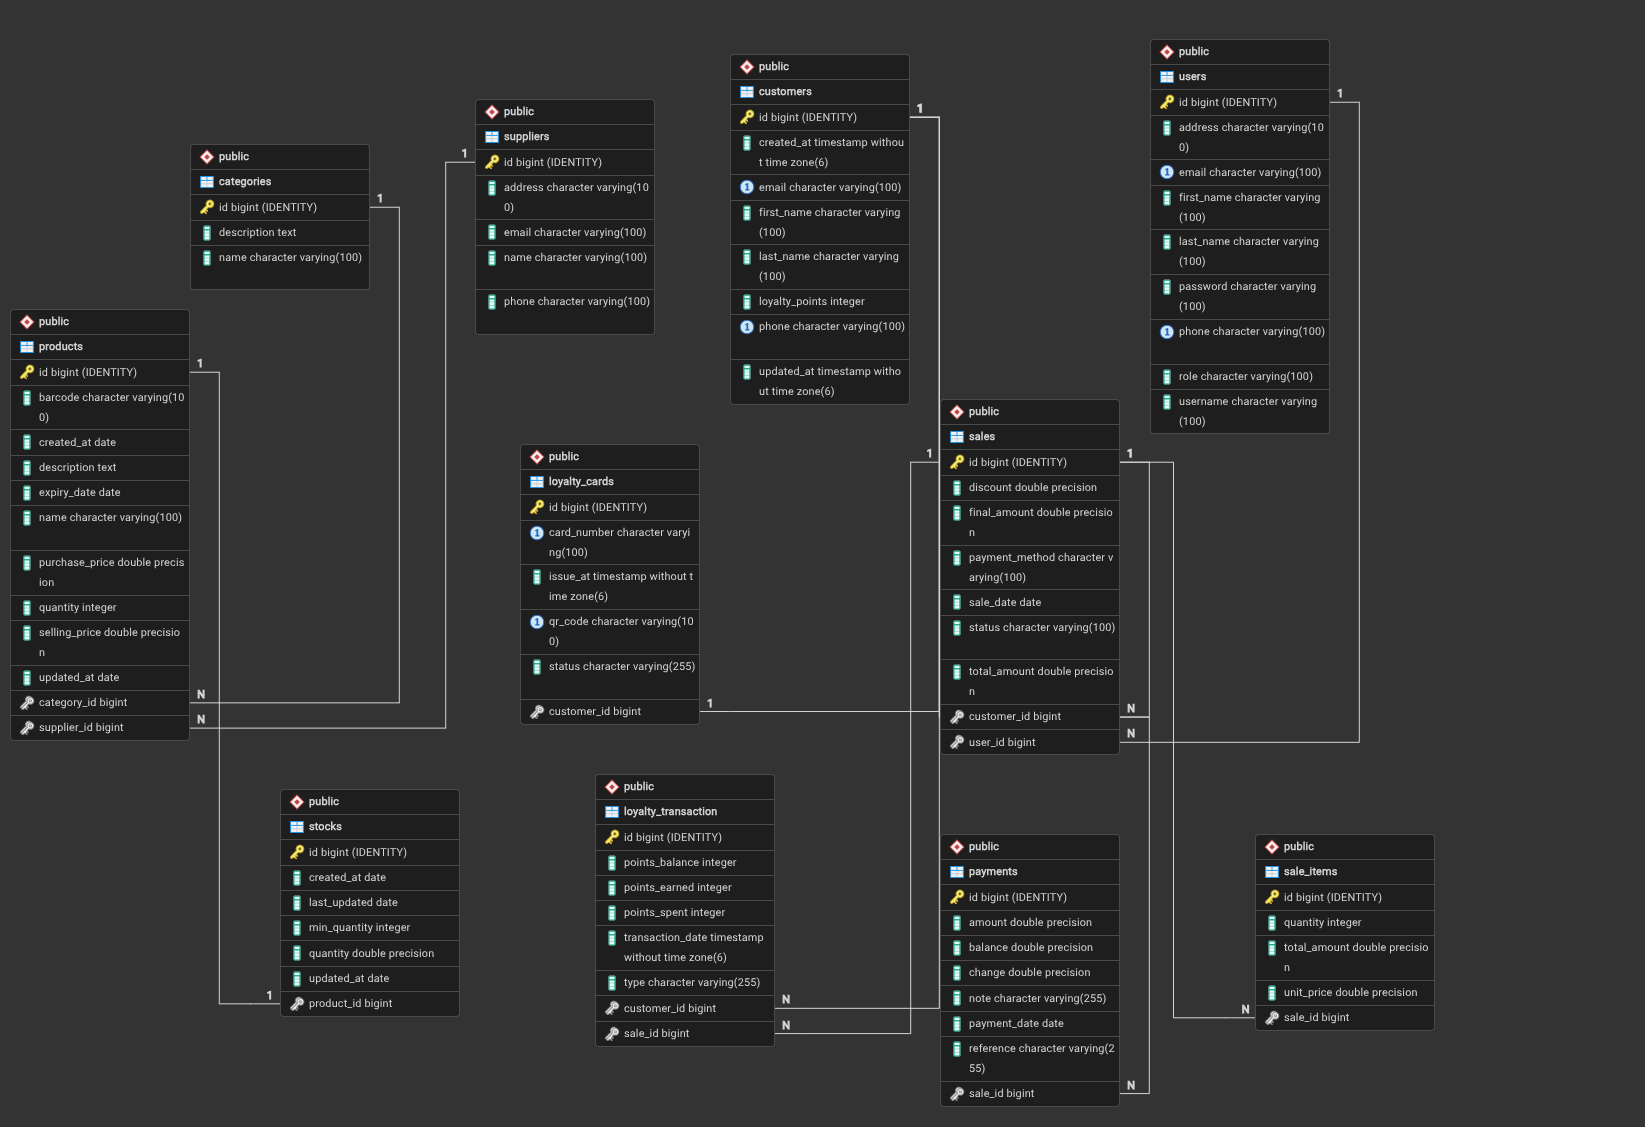
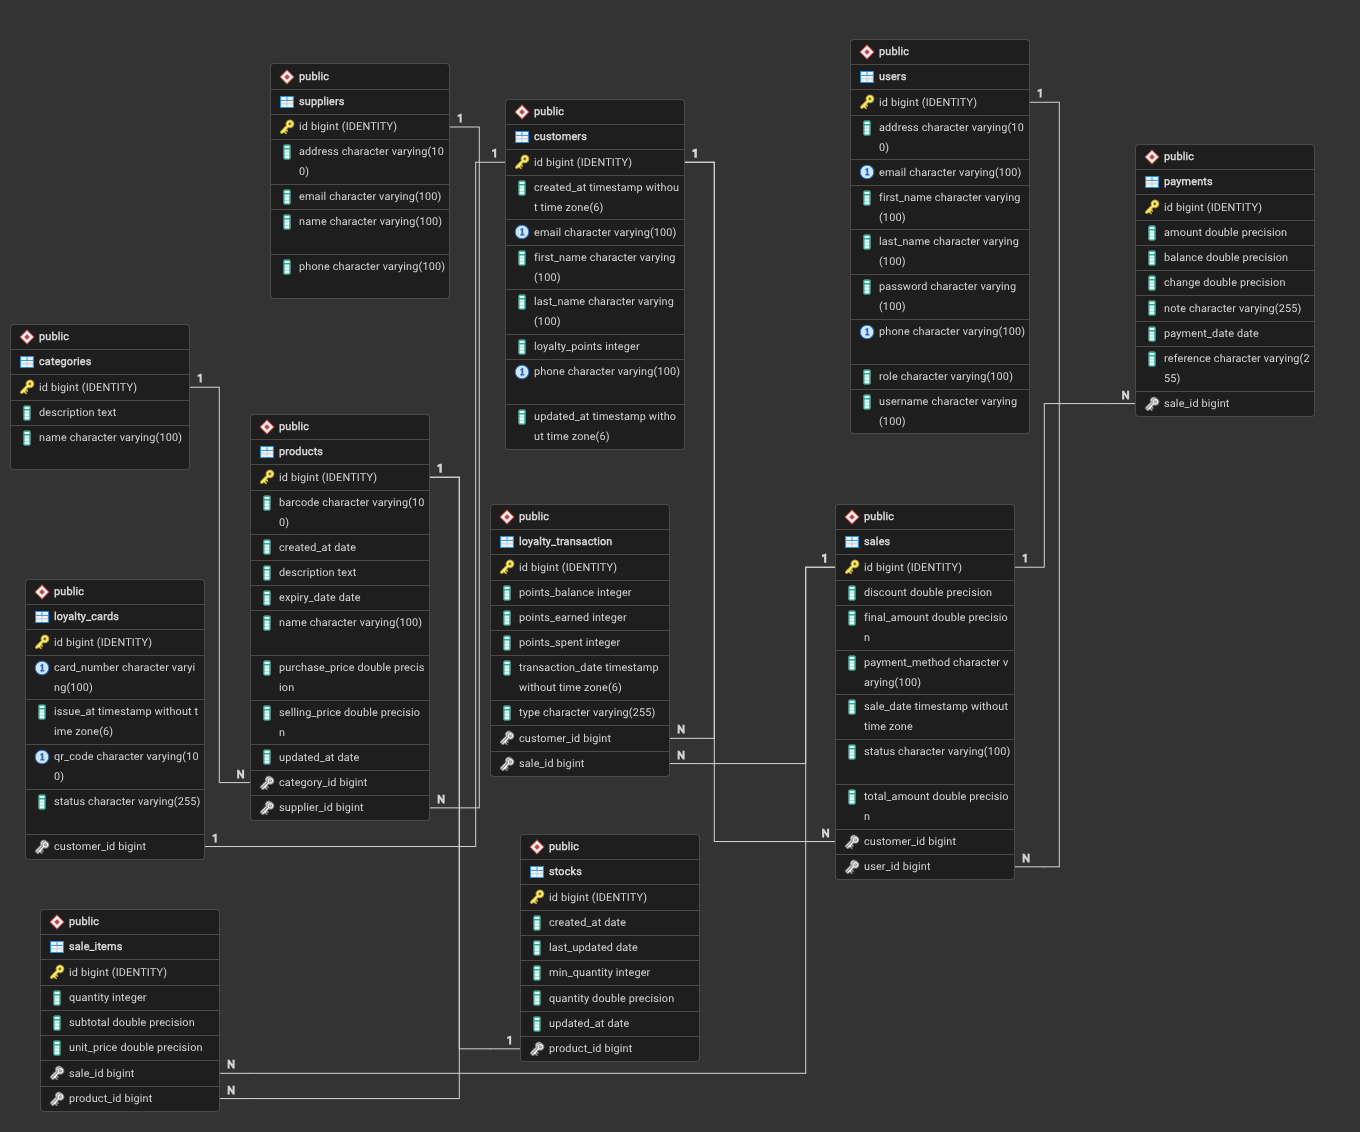
6. Updated the Entity SaleItems to hold the id of the product also 7. Updated the ERD also

diff --git a/src/main/java/com/eustache/pos_system/Entities/Sale.java b/src/main/java/com/eustache/pos_system/Entities/Sale.java
@@ -9,6 +9,8 @@ import lombok.NoArgsConstructor;
 import lombok.Setter;
 
 import java.time.LocalDate;
+import java.time.LocalDateTime;
+import java.util.ArrayList;
 import java.util.List;
 
 @Getter
@@ -21,15 +23,26 @@ public class Sale {
     @Id
     @GeneratedValue(strategy = GenerationType.IDENTITY)
     private Long id;
-    @ManyToOne
+
+    /**
+     * Cashier who created the sale
+     */
+    @ManyToOne(fetch = FetchType.LAZY)
     @JoinColumn(name = "user_id", nullable = false, referencedColumnName = "id", foreignKey = @ForeignKey(
             name = "fk_sale_user"
     ))
-    private User user;
+    private User cashier;
+
+    @ManyToOne(fetch = FetchType.LAZY)
+    @JoinColumn(name = "customer_id", referencedColumnName = "id", foreignKey = @ForeignKey(
+            name = "fk_sale_customer"
+    ))
+    private Customer customer;
+
     @Column(
             nullable = false
     )
-    private LocalDate saleDate;
+    private LocalDateTime saleDate;
     @Column(
             nullable = false
     )
@@ -53,14 +66,8 @@ public class Sale {
     private StatusPayment status;
 
     @OneToMany(mappedBy = "sale", cascade = CascadeType.ALL, orphanRemoval = true)
-    private List<SaleItem> saleItems;
+    private List<SaleItem> saleItems = new ArrayList<>();
 
     @OneToMany(mappedBy = "sale", cascade = CascadeType.ALL, orphanRemoval = true)
-    private List<Payment> payments;
-
-    @ManyToOne
-    @JoinColumn(name = "customer_id", referencedColumnName = "id", foreignKey = @ForeignKey(
-            name = "fk_sale_customer"
-    ))
-    private Customer customer;
+    private List<Payment> payments = new ArrayList<>();
 }

diff --git a/src/main/java/com/eustache/pos_system/Entities/SaleItem.java b/src/main/java/com/eustache/pos_system/Entities/SaleItem.java
@@ -20,11 +20,22 @@ public class SaleItem {
     /**
      * Many sale items can belong to one sale
      */
-    @ManyToOne
+    @ManyToOne(fetch = FetchType.LAZY)
     @JoinColumn(name = "sale_id", referencedColumnName = "id", foreignKey = @ForeignKey(
             name = "fk_sale_item_sale"
     ))
     private Sale sale;
+
+    @ManyToOne(fetch = FetchType.LAZY)
+    @JoinColumn(
+            name = "product_id",
+            nullable = false,
+            foreignKey = @ForeignKey(
+                    name = "fk_sale_item_product"
+            )
+    )
+    private Product product;
+
     @Column(
             nullable = false
     )
@@ -32,6 +43,10 @@ public class SaleItem {
     @Column(
             nullable = false
     )
+    /*
+     * Product price at the moment of sale
+     */
     private double unitPrice;
-    private double totalAmount;
+
+    private double subtotal;
 }

diff --git a/src/main/java/com/eustache/pos_system/Entities/Product.java b/src/main/java/com/eustache/pos_system/Entities/Product.java
@@ -9,6 +9,8 @@ import org.hibernate.annotations.CreationTimestamp;
 import org.hibernate.annotations.UpdateTimestamp;
 
 import java.time.LocalDate;
+import java.util.ArrayList;
+import java.util.List;
 
 @Getter
 @Setter
@@ -75,4 +77,10 @@ public class Product {
      */
     @OneToOne(mappedBy = "product", cascade = CascadeType.ALL, orphanRemoval = true)
     private Stock stock;
+
+    /**
+     * One product has many sale items
+     */
+    @OneToMany(mappedBy = "product", cascade = CascadeType.ALL, orphanRemoval = true)
+    private List<SaleItem> saleItems = new ArrayList<>();
 }

diff --git a/src/main/java/com/eustache/pos_system/Mappers/ProductMapper.java b/src/main/java/com/eustache/pos_system/Mappers/ProductMapper.java
@@ -46,6 +46,9 @@ public class ProductMapper {
         product.setExpiryDate(createProductDto.expiryDate());
 
 
+        /*
+         * Set Category
+         */
         product.setCategory(
                 categoryRepository.findById(createProductDto.categoryId())
                         .orElseThrow(
@@ -53,7 +56,9 @@ public class ProductMapper {
                         )
         );
 
-
+        /*
+         * Set Supplier
+         */
         product.setSupplier(
                 supplierRepository.findById(createProductDto.supplierId())
                         .orElseThrow(

diff --git a/src/main/java/com/eustache/pos_system/Entities/User.java b/src/main/java/com/eustache/pos_system/Entities/User.java
@@ -64,8 +64,8 @@ public class User {
     private RoleEnum role;
 
     /**
-     * One user can have many sales
+     * One cashier has many sales
      */
-    @OneToMany(mappedBy = "user", cascade = CascadeType.ALL, orphanRemoval = true)
+    @OneToMany(mappedBy = "cashier", cascade = CascadeType.ALL, orphanRemoval = true)
     private List<Sale> sales;
 }
